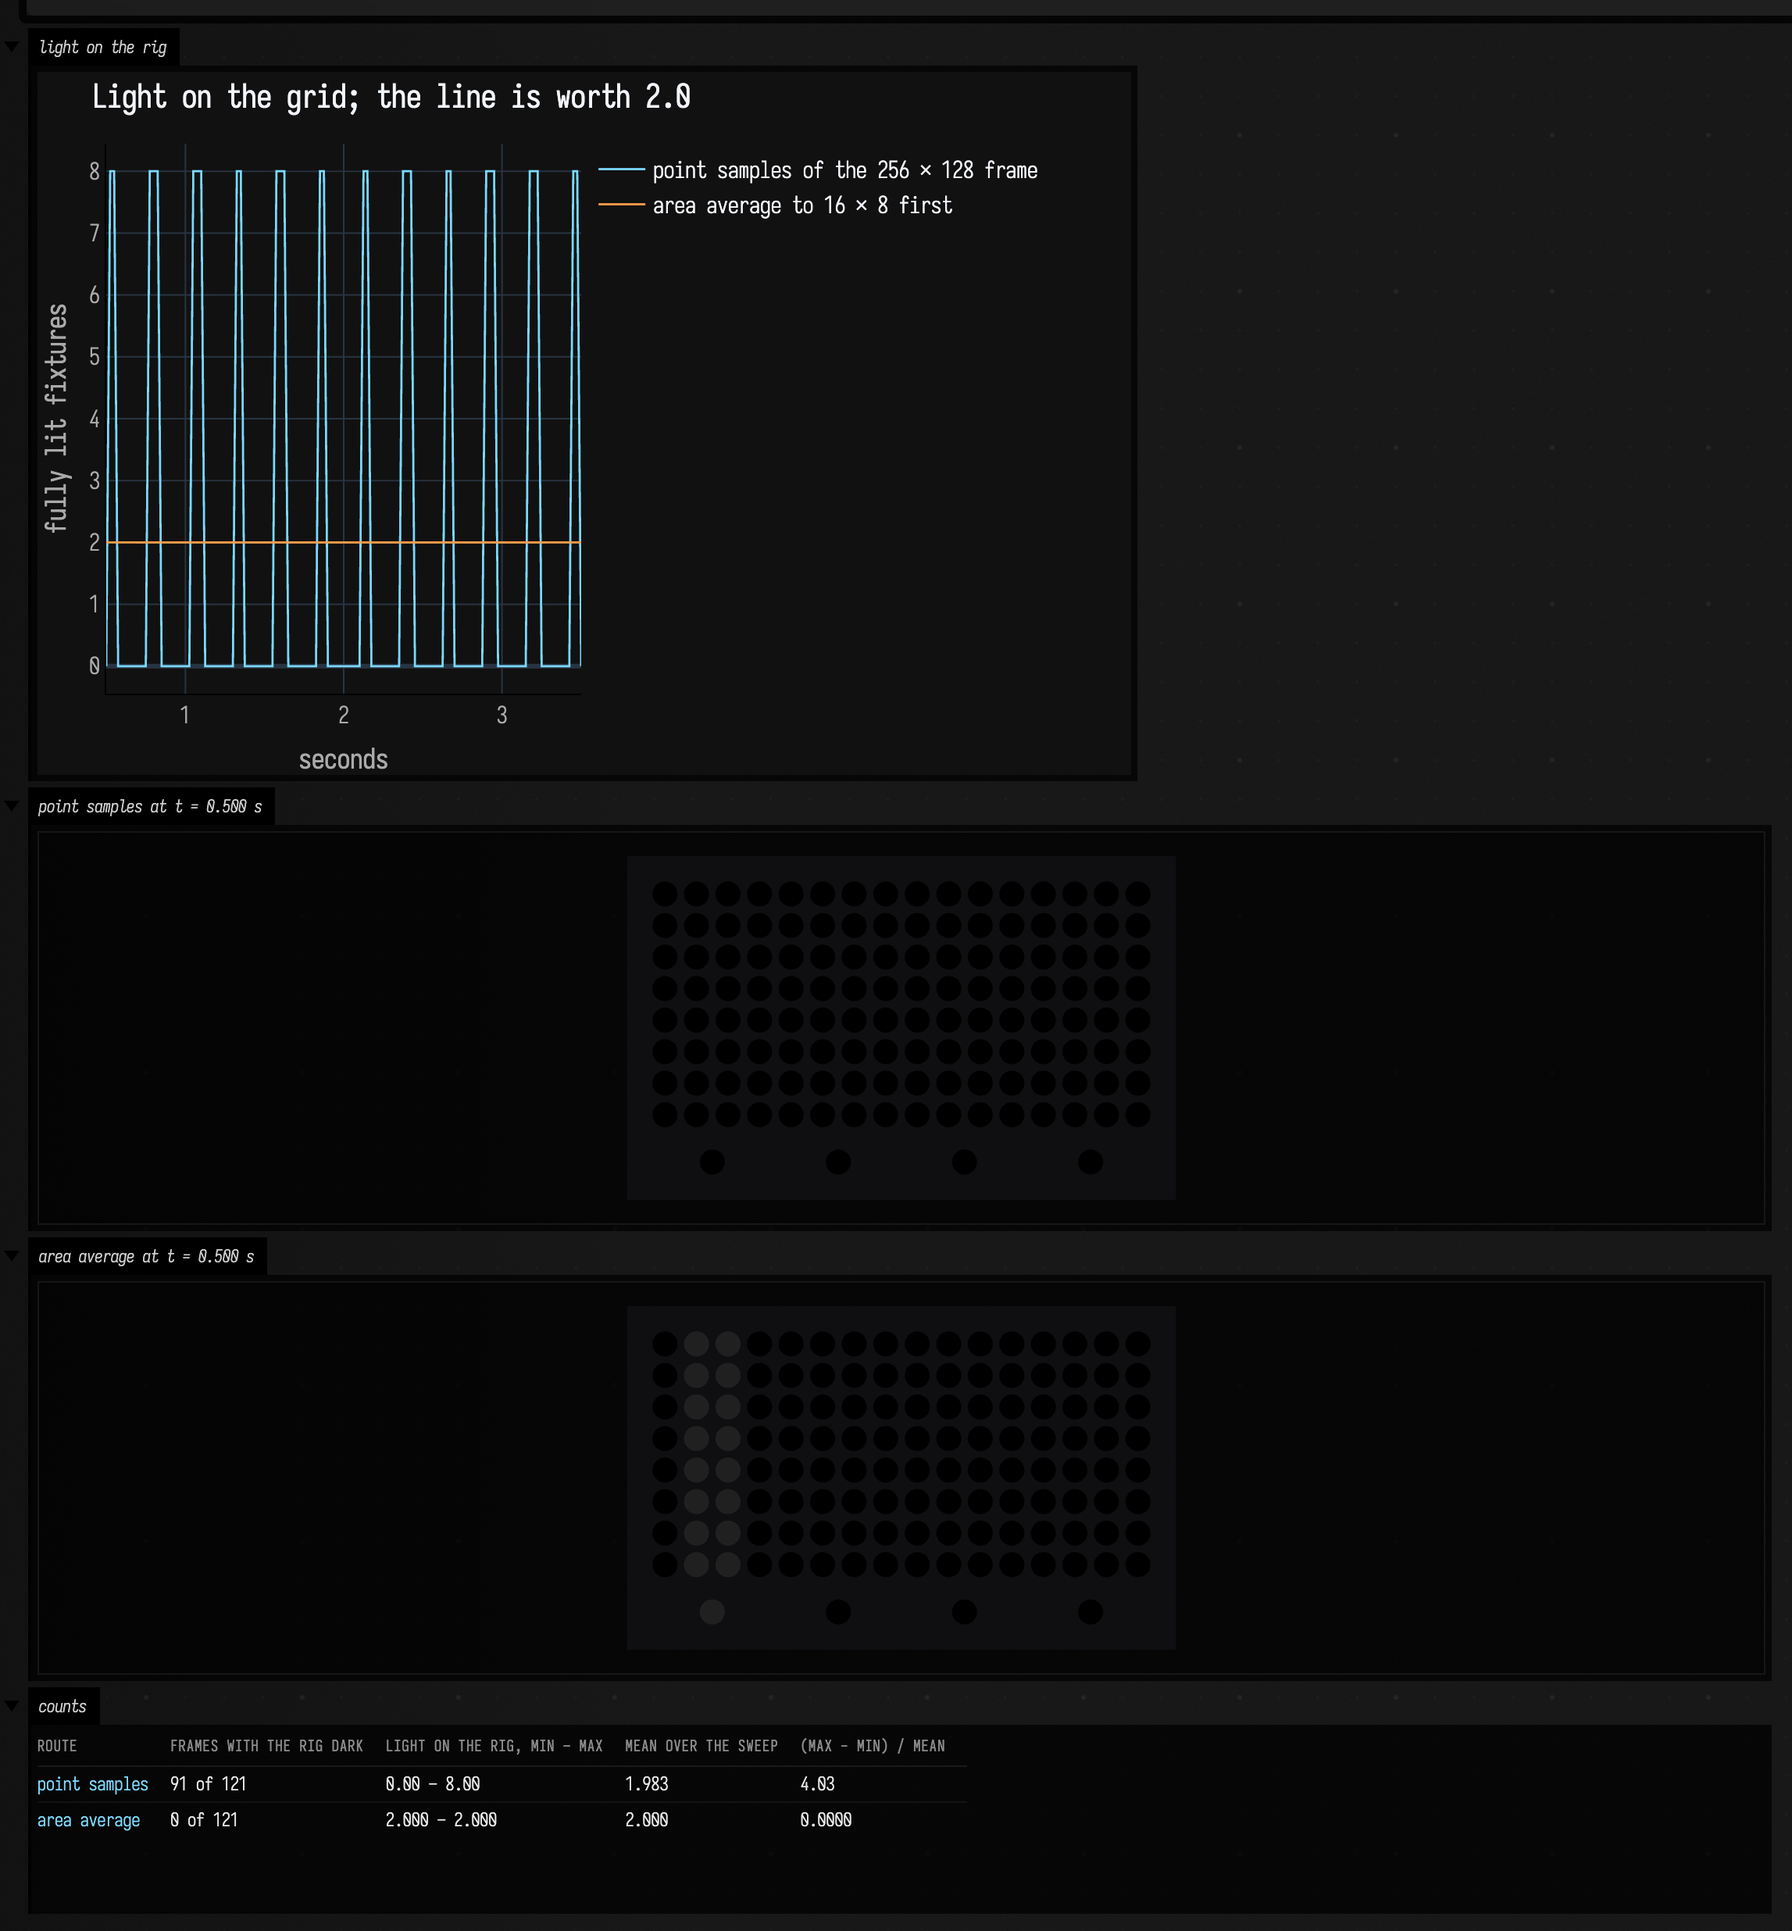
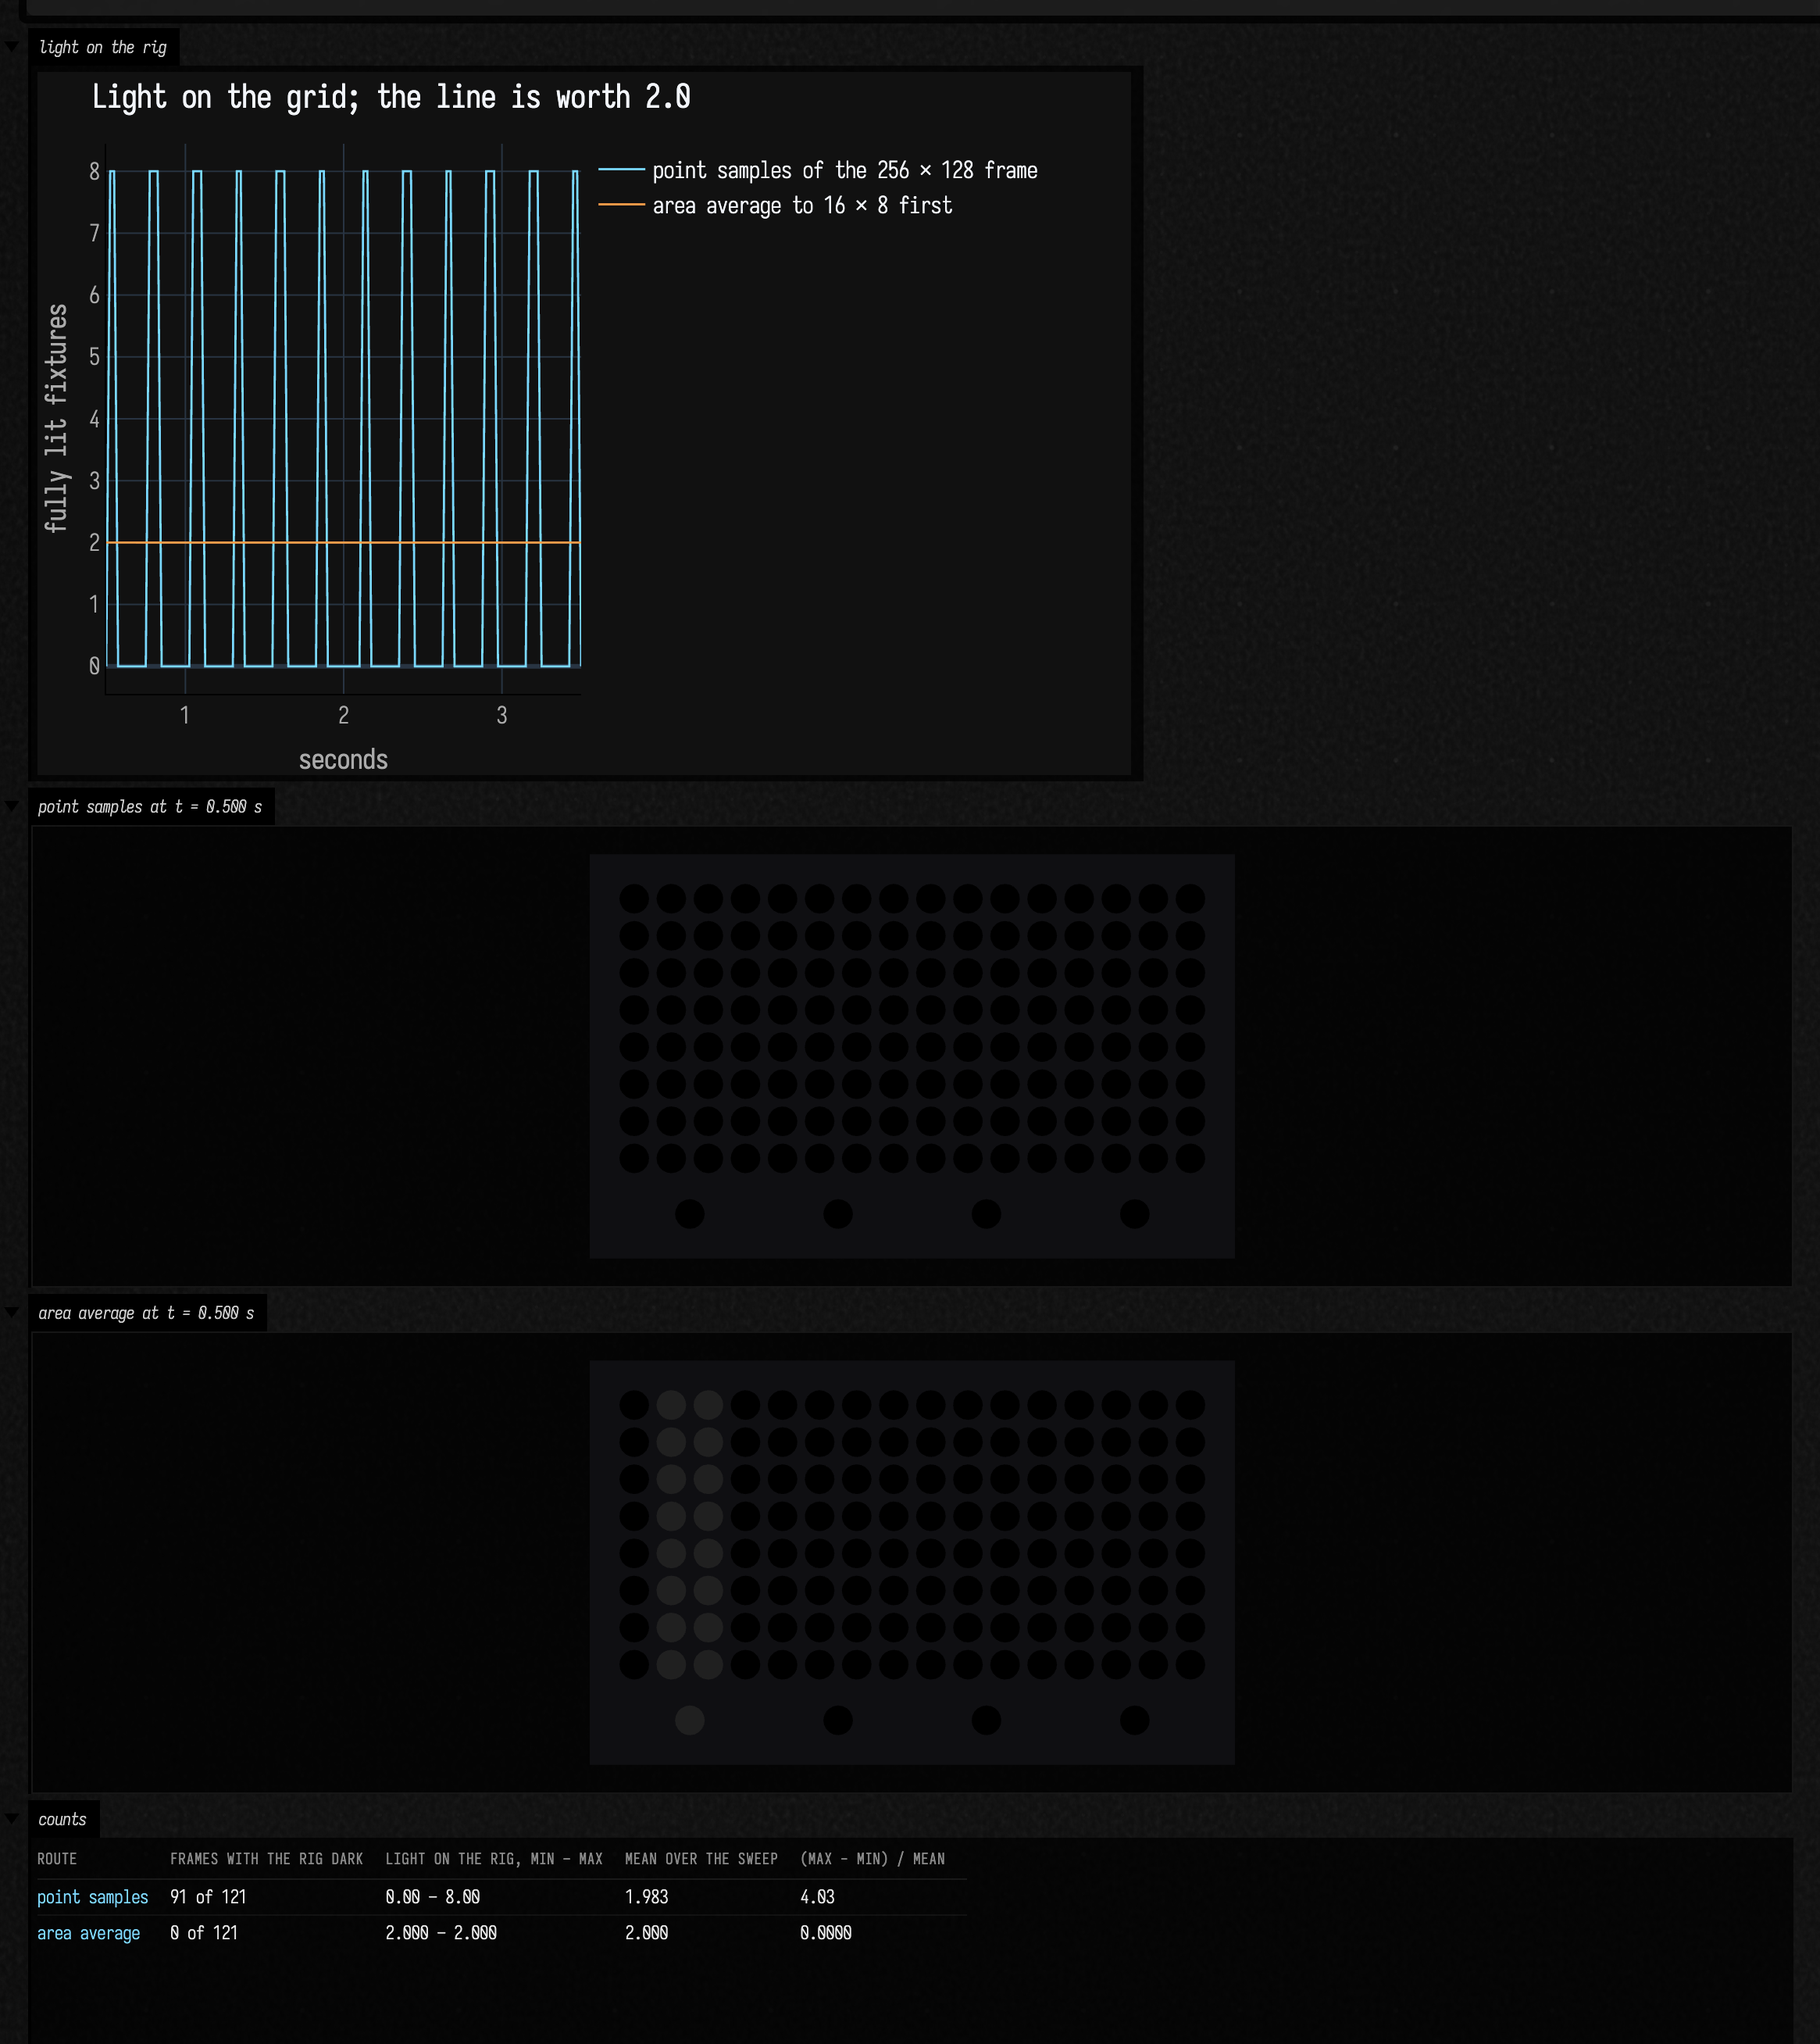
RectSL CPU rasterizer: top-left fill rule, so a rectangle covers its width wherever its edges land

diff --git a/src/jvmMain/kotlin/afield/lang/rectsl/study/RectSLStudyRender.kt b/src/jvmMain/kotlin/afield/lang/rectsl/study/RectSLStudyRender.kt
@@ -204,7 +204,7 @@ typealias RectSLRasterizer = StudyFrames<RectSLDrawable>
  * [RectSLStudyShader.fragment] shades — the three built-in materials in Kotlin, a StackSL material
  * through the StackSL GLSL interpreter — and decoded to linear light at the end, as the GPU's bytes
  * are. It needs no graphics context, so tests and headless runs see the scene the window shows, a
- * few levels apart at rectangle edges (it samples one point per pixel; the GPU's edge rule differs).
+ * few levels apart at rectangle edges (it samples one point per pixel, with a top-left fill rule like the GPU's).
  */
 object CpuRectSLRasterizer : RectSLRasterizer {
     override val description = "CPU reference (afield.lang.rectsl.study): exact geometry, one sample per pixel; launch the window for the GPU"
@@ -261,9 +261,9 @@ void main() {
                 if (row < quad.minY || row > quad.maxY) continue
                 for (col in quad.minX..quad.maxX) {
                     val cx = col + 0.5
-                    // Two triangles, (0 1 2) and (0 2 3), as the index buffer draws them; a centre on
-                    // their shared diagonal belongs to the first, so nothing is blended twice.
-                    val w = barycentric(quad, 0, 1, 2, cx, cy) ?: barycentric(quad, 0, 2, 3, cx, cy, excludeAB = true) ?: continue
+                    // Two triangles, (0 1 2) and (0 2 3), as the index buffer draws them. The half-open
+                    // edge rule in barycentric gives a centre on their shared diagonal to exactly one.
+                    val w = barycentric(quad, 0, 1, 2, cx, cy) ?: barycentric(quad, 0, 2, 3, cx, cy) ?: continue
                     val (a, b, c, weights) = w
                     val u = CORNER_U[a] * weights[0] + CORNER_U[b] * weights[1] + CORNER_U[c] * weights[2]
                     val vv = CORNER_V[a] * weights[0] + CORNER_V[b] * weights[1] + CORNER_V[c] * weights[2]
@@ -289,18 +289,30 @@ void main() {
 
     /**
      * Barycentric weights of (px, py) in triangle (a, b, c) of [quad], or null outside it; either
-     * winding. With [excludeAB], a point on edge a–b is outside — the quad's diagonal, which the first
-     * triangle already drew.
+     * winding. A point exactly on an edge counts only if that edge faces left, or straight up (a
+     * half-open, top-left fill rule), so a rectangle covers as many pixels as it is wide wherever its
+     * edges land, and an edge two triangles share belongs to exactly one of them.
      */
-    private fun barycentric(quad: Quad, a: Int, b: Int, c: Int, px: Double, py: Double, excludeAB: Boolean = false): Weights? {
+    private fun barycentric(quad: Quad, a: Int, b: Int, c: Int, px: Double, py: Double): Weights? {
         val ax = quad.x[a]; val ay = quad.y[a]; val bx = quad.x[b]; val by = quad.y[b]; val cx = quad.x[c]; val cy = quad.y[c]
         val area = (bx - ax) * (cy - ay) - (by - ay) * (cx - ax)
         if (kotlin.math.abs(area) < 1e-12) return null
         val w0 = ((bx - px) * (cy - py) - (by - py) * (cx - px)) / area
         val w1 = ((cx - px) * (ay - py) - (cy - py) * (ax - px)) / area
         val w2 = 1.0 - w0 - w1
-        if (w0 < 0 || w1 < 0 || w2 < 0 || (excludeAB && w2 == 0.0)) return null
+        if (w0 < 0 || w1 < 0 || w2 < 0) return null
+        if (w0 == 0.0 && !ownsEdge(bx, by, cx, cy, ax, ay)) return null
+        if (w1 == 0.0 && !ownsEdge(cx, cy, ax, ay, bx, by)) return null
+        if (w2 == 0.0 && !ownsEdge(ax, ay, bx, by, cx, cy)) return null
         return Weights(a, b, c, doubleArrayOf(w0, w1, w2))
+    }
+
+    /** Whether edge p–q, opposite r, faces left or straight up (y grows downward), and so owns its points. */
+    private fun ownsEdge(px: Double, py: Double, qx: Double, qy: Double, rx: Double, ry: Double): Boolean {
+        var nx = qy - py
+        var ny = -(qx - px)
+        if (nx * (rx - px) + ny * (ry - py) > 0) { nx = -nx; ny = -ny }
+        return nx < 0 || (nx == 0.0 && ny < 0)
     }
 
     private fun shade(quad: Quad, colour: DoubleArray, u: Double, v: Double, time: Double,

diff --git a/src/jvmTest/kotlin/afield/lang/rectsl/study/CpuRasterFillRuleTest.kt b/src/jvmTest/kotlin/afield/lang/rectsl/study/CpuRasterFillRuleTest.kt
@@ -1,0 +1,35 @@
+package afield.lang.rectsl.study
+
+import afield.lang.rectsl.RectSLImager
+import kotlin.test.Test
+import kotlin.test.assertEquals
+
+/** The CPU reference's half-open edge rule: a rectangle covers as many pixels as it is wide. */
+class CpuRasterFillRuleTest {
+    private fun covered(x: Double, y: Double): Pair<Int, Int> {
+        val scene = """
+            #rectsl
+            ->wall 16 8 abstract
+            ->background 0x000000
+            ->duration 1
+            "r" rect
+              4 4 ->wh
+              0xffffff solid ->fill
+              $x ->x
+              $y ->y
+            ;
+        """.trimIndent()
+        val img = RectSLImager(scene).frame(0.0, 16, 8, linear = true)
+        fun lit(col: Int, row: Int) = img.data[(row * 16 + col) * 3] > 0.5f
+        val columns = (0 until 16).count { c -> (0 until 8).any { r -> lit(c, r) } }
+        val rows = (0 until 8).count { r -> (0 until 16).any { c -> lit(c, r) } }
+        return columns to rows
+    }
+
+    @Test
+    fun `a four-unit rectangle covers four pixels wherever its edges land`() {
+        for (offset in listOf(0.0, 0.25, 0.5, 0.75)) {
+            assertEquals(4 to 4, covered(offset, offset), "rectangle at offset $offset")
+        }
+    }
+}

diff --git a/public/docs/chain_scene_to_light.md b/public/docs/chain_scene_to_light.md
@@ -74,13 +74,6 @@ In RectSL it reads:
 ;
 ```
 
-!!! note "Why the line moves with `linear`"
-
-    A quoted track such as `'( 0=-8  4=8 ) ->x` eases in and out by default. The CPU rasterizer
-    takes one sample per pixel centre and counts a centre exactly on an edge as inside, so an eased
-    edge that lands on a centre draws a line one pixel wider than it is. `linear` keeps the edges
-    off the centres in this scene.
-
 The second panel is the rig in its sent colours. The third is the same rig lit only by what the
 receiver decoded from the two universes that came back. The wall is 16 units by 8, which gives one
 fixture per unit, and the frame is drawn at 16 pixels per unit, so each fixture stands for a
